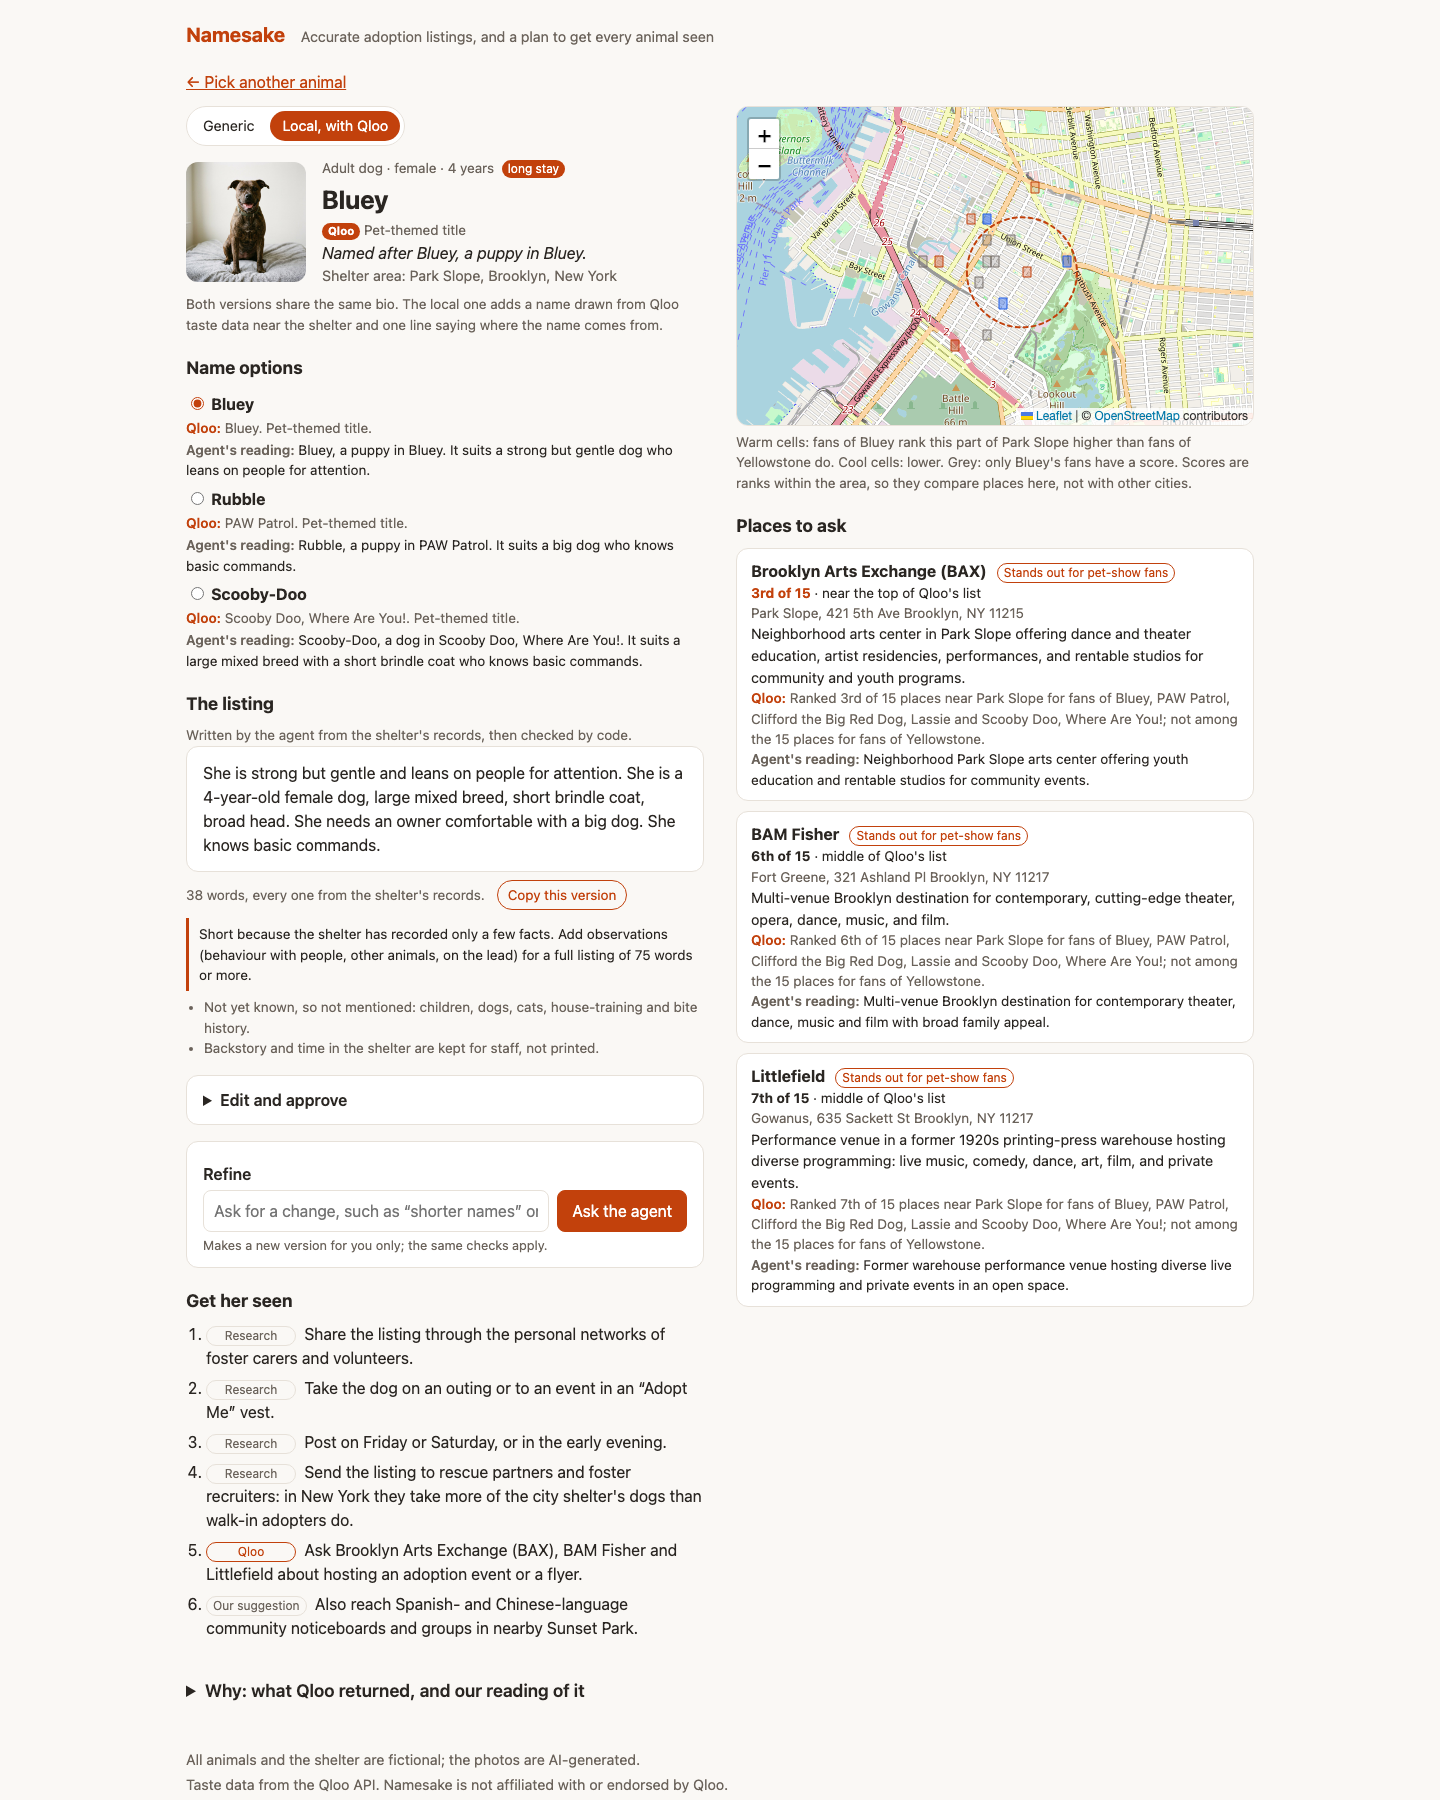
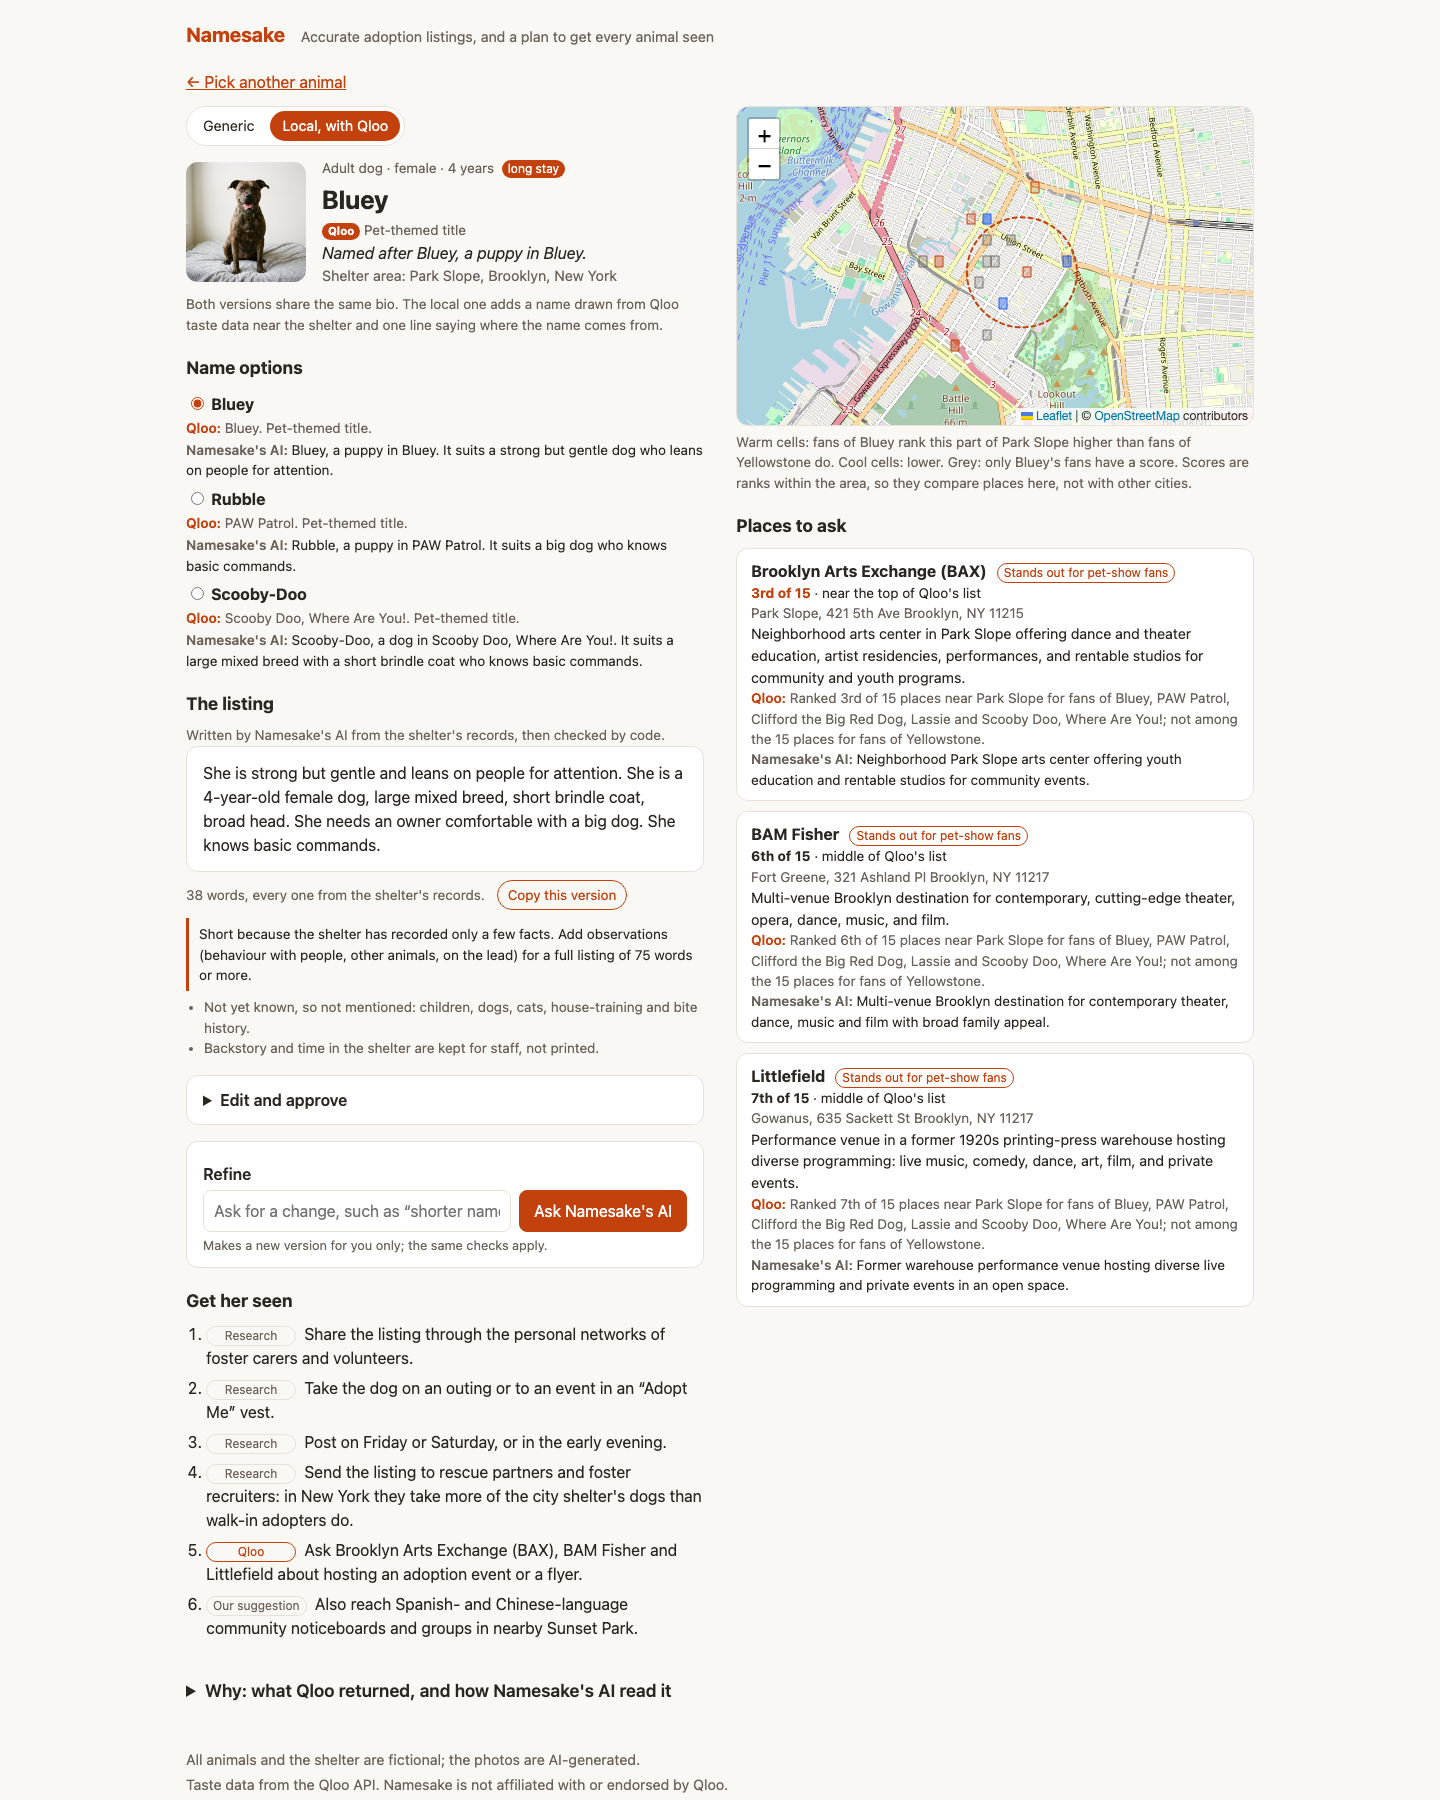
Say "Namesake's AI", not "the agent"; put the shelter area in a bar above the animals
- The author: "the agent" read as if Qloo chose. Every reading, button,
  step-log line and fallback note a visitor sees, and the README, Devpost
  text and video script, now say Namesake's AI. "Agent" stays in code,
  data values and developer docs; the README still explains that
  Namesake's AI is an agent.
- Start page: a slim "Shelter area: Park Slope, Brooklyn · Change" bar
  above the examples and the animals. "Change" opens a panel with the
  presets, the typed area with suggestions, and the map, which sizes and
  centres itself on opening. The panel opens by itself when no area is
  chosen or a check needs the visitor; choosing an area updates the bar.
- docs/img/result.png re-captured with the new wording.

diff --git a/app/ui/classic/templates/start.html b/app/ui/classic/templates/start.html
@@ -12,14 +12,6 @@
   <p>{{ view.intro }}</p>
 </section>
 
-{% if view.examples %}
-<section class="examples" data-role="examples">
-  <h2>{{ view.examples_heading }}</h2>
-  <ul>
-    {% for example in view.examples %}<li><a class="example" href="{{ example.url }}">{{ example.label }}</a></li>{% endfor %}
-  </ul>
-</section>
-{% endif %}
 
 <form id="custom-location" action="{{ view.location_form.action }}" method="post">
   {% if ui_query %}<input type="hidden" name="ui" value="{{ ui }}">{% endif %}
@@ -30,9 +22,17 @@
 
 <form id="pick" action="/runs" method="post">
   {% if ui_query %}<input type="hidden" name="ui" value="{{ ui }}">{% endif %}
+  {# The chosen area as a slim bar; its panel holds everything for changing it. #}
+  <details class="shelter" id="shelter" data-role="shelter"{% if view.shelter.open %} open{% endif %}>
+    <summary>
+      <span class="shelter-heading">{{ view.shelter.heading }}:</span>
+      <strong class="shelter-name" id="shelter-name">{{ view.shelter.name }}</strong>
+      <span class="shelter-region" id="shelter-region">{{ view.shelter.region }}</span>
+      <span class="shelter-toggle"><span class="when-closed">{{ view.shelter.change }}</span><span class="when-open">{{ view.shelter.close }}</span></span>
+    </summary>
   <section class="where">
     <fieldset class="locations">
-      <legend><h2>Where is the shelter?</h2></legend>
+      <legend><h2>{{ view.shelter.panel_heading }}</h2></legend>
       {% if view.location_form.message %}
       {# A failed area check: said where the visitor will see it, and no area stays chosen. #}
       <p class="location-alert" id="location-alert" role="alert">{{ view.location_form.message }}</p>
@@ -83,6 +83,16 @@
     </figure>
     <script type="application/json" id="map-points">{{ view.locations|plain|tojson }}</script>
   </section>
+  </details>
+
+{% if view.examples %}
+  <section class="examples" data-role="examples">
+    <h2>{{ view.examples_heading }}</h2>
+    <ul>
+      {% for example in view.examples %}<li><a class="example" href="{{ example.url }}">{{ example.label }}</a></li>{% endfor %}
+    </ul>
+  </section>
+  {% endif %}
 
   <h2 class="step-heading">Pick an animal</h2>
 

diff --git a/app/ui/classic/templates/result.html b/app/ui/classic/templates/result.html
@@ -72,7 +72,7 @@
                           data-copy="{{ option.copy_text }}" {% if option.name == view.chosen_name %}checked{% endif %}>
               <strong>{{ option.name }}</strong></label>
             <p class="evidence"><span>Qloo:</span> {{ option.title }}. {{ option.badge }}.</p>
-            <p class="reading"><span>Agent's reading:</span> {{ option.reference }}. {{ option.why }}</p>
+            <p class="reading"><span>Namesake's AI:</span> {{ option.reference }}. {{ option.why }}</p>
           </li>
           {% endfor %}
         </ul>
@@ -124,7 +124,7 @@
       <div class="inline-field">
         <input id="refine-text" type="text" name="text" minlength="3" maxlength="200" required
                placeholder="{{ view.refine_placeholder }}">
-        <button type="submit">Ask the agent</button>
+        <button type="submit">Ask Namesake's AI</button>
       </div>
       <p class="hint">Makes a new version for you only; the same checks apply.</p>
     </form>
@@ -156,7 +156,7 @@
         <p class="venue-place">{{ venue.place }}</p>
         {% if venue.description %}<p class="venue-description">{{ venue.description }}</p>{% endif %}
         <p class="evidence"><span>Qloo:</span> {{ venue.evidence }}</p>
-        {% if venue.reason %}<p class="reading"><span>Agent's reading:</span> {{ venue.reason }}</p>{% endif %}
+        {% if venue.reason %}<p class="reading"><span>Namesake's AI:</span> {{ venue.reason }}</p>{% endif %}
       </li>
       {% else %}
       <li>No venues for this area yet.</li>
@@ -173,7 +173,7 @@
 {% endif %}
 
 <details class="why" data-role="why">
-  <summary>Why: what Qloo returned, and our reading of it</summary>
+  <summary>Why: what Qloo returned, and how Namesake's AI read it</summary>
   <div class="why-columns">
     <div class="why-column" data-role="qloo-returned">
       <h3>What Qloo returned</h3>
@@ -182,7 +182,7 @@
       </dl>
     </div>
     <div class="why-column" data-role="our-reading">
-      <h3>Our reading of it</h3>
+      <h3>How Namesake's AI read it</h3>
       <dl>
         {% for item in view.our_reading %}<dt>{{ item.title }}</dt><dd>{{ item.detail }}</dd>{% endfor %}
       </dl>

diff --git a/app/ui/classic/static/style.css b/app/ui/classic/static/style.css
@@ -490,7 +490,8 @@ button[type="submit"]:not(.animal-card):not(.link-button), .candidates button {
 .approve button[type="submit"] { margin-top: 8px; }
 .examples ul { display: flex; flex-wrap: wrap; gap: 8px; list-style: none; padding: 0; margin: 8px 0 0; }
 .example { display: inline-block; padding: 6px 12px; border: 1px solid var(--accent); border-radius: 999px; color: var(--accent); text-decoration: none; }
-.examples h2 { font-size: 1rem; margin: 16px 0 0; }
+.examples h2 { font-size: 1rem; margin: 0; }
+.examples { margin-bottom: 28px; }
 .add-animal a, .litter button { margin-top: 8px; }
 .add-animal-form form { display: grid; gap: 6px; max-width: 640px; }
 .add-animal-form label { font-weight: 600; margin-top: 6px; }
@@ -553,3 +554,24 @@ button[type="submit"]:not(.animal-card):not(.link-button), .candidates button {
   margin: 0 0 12px; padding: 10px 12px; border-left: 4px solid var(--accent);
   background: var(--surface); font-weight: 600;
 }
+
+/* The shelter bar above the animals, and its panel for changing the area. */
+.shelter {
+  margin: 0 0 24px;
+  border: 1px solid var(--border);
+  border-radius: var(--radius);
+  background: var(--surface);
+}
+.shelter > summary {
+  display: flex; flex-wrap: wrap; align-items: baseline; gap: 4px 8px;
+  padding: 12px 16px; cursor: pointer; list-style: none;
+}
+.shelter > summary::-webkit-details-marker { display: none; }
+.shelter-heading, .shelter-region { color: var(--muted); }
+.shelter-name { font-size: 1.05rem; }
+.shelter-toggle { margin-left: auto; color: var(--accent); font-weight: 600; }
+.shelter-toggle .when-open, .shelter[open] .shelter-toggle .when-closed { display: none; }
+.shelter[open] .shelter-toggle .when-open { display: inline; }
+.shelter[open] > summary { border-bottom: 1px solid var(--border); }
+.shelter > summary:focus-visible { outline: 2px solid var(--accent); outline-offset: 2px; }
+.shelter .where { padding: 16px; margin-bottom: 0; }

diff --git a/app/ui/classic/static/location-map.js b/app/ui/classic/static/location-map.js
@@ -51,7 +51,13 @@
     fillOpacity: 0.15,
   }).addTo(map);
   const pin = L.circleMarker(centreOf(start), pinStyle);
+  // The bar above the animals names the chosen area; the panel below it holds this map.
+  const panel = document.getElementById("shelter");
+  const barName = document.getElementById("shelter-name");
+  const barRegion = document.getElementById("shelter-region");
+  let current = start;
   const show = (p) => {
+    current = p;
     area.setLatLng(centreOf(p)).setRadius(p.shelter_radius_m);
     if (p.pin) pin.setLatLng(centreOf(p)).addTo(map);
     else pin.remove();
@@ -60,10 +66,21 @@
   };
   show(start);
 
+  // Leaflet cannot measure a map inside a closed panel: size and centre it on opening.
+  if (panel) {
+    panel.addEventListener("toggle", () => {
+      if (!panel.open) return;
+      map.invalidateSize();
+      map.setView(centreOf(current), zoomFor(current));
+    });
+  }
+
   document.querySelectorAll('input[name="location"]').forEach((input) => {
     input.addEventListener("change", () => {
       const p = points[input.value];
       if (!p) return;
+      if (barName) barName.textContent = p.label;
+      if (barRegion) barRegion.textContent = p.region;
       show(p);
       map.flyTo(centreOf(p), zoomFor(p), { duration: 1.2 });
     });

diff --git a/app/views/build.py b/app/views/build.py
@@ -30,6 +30,7 @@ from app.views.models import (
     PlanItem,
     Question,
     ResultView,
+    ShelterBar,
     StartView,
     StepView,
     VenueView,
@@ -194,7 +195,14 @@ def build_start_view(
     for option in options:
         if pin_far and option.selected:
             option.map_note = PIN_FAR_NOTE
+    chosen = next((o for o in options if o.selected), None)
+    shelter = (
+        ShelterBar(name=chosen.label, region=chosen.region)
+        if chosen
+        else ShelterBar(name="not chosen yet", open=True)
+    )
     return StartView(
+        shelter=shelter,
         examples=examples or [],
         title="Write an adoption listing",
         intro=(
@@ -230,7 +238,7 @@ def listing_view(
     draft = result.draft if result else None
     if draft is not None:
         bio = [(s.text, s.facts) for s in result.bio]
-        written_by = "Written by the agent from the shelter's records, then checked by code."
+        written_by = "Written by Namesake's AI from the shelter's records, then checked by code."
     else:
         bio = [(s.text, [s.source]) for s in templated_listing(animal).sentences]
         written_by = "Built from the shelter's records by a fixed template."
@@ -283,7 +291,9 @@ def listing_view(
             ),
             hook=local_hook,
             copy_text=copy_block(local_name, local_hook, text) if draft else "",
-            note=None if draft else "No local version yet: it needs the agent's name options.",
+            note=None
+            if draft
+            else "No local version yet: it needs the name options from Namesake's AI.",
             selected=draft is not None,
         ),
     ]
@@ -343,7 +353,7 @@ def name_view(result: ListingResult | None, profile: LocationProfile, text: str)
     if draft is None:
         return NameView(
             value=None,
-            placeholder="No name yet: the agent's name options appear after a run.",
+            placeholder="No name yet: the name options from Namesake's AI appear after a run.",
         )
     titles = title_names(profile, result)
     refs = result.references
@@ -519,12 +529,13 @@ def why(location: Location, profile: LocationProfile) -> tuple[list[WhyItem], li
         reading.append(
             WhyItem(
                 title="Who chose",
-                detail="The agent proposed the titles, settled ambiguous names and picked the "
-                "venues; code checked that each came from Qloo. "
+                detail="Namesake's AI proposed the titles, settled ambiguous names and picked "
+                "the venues; code checked that each came from Qloo. "
                 + (
                     "The order of the titles is Qloo's ranking for this area."
                     if profile.order_source == "qloo_rank"
-                    else "Qloo's ranking was unavailable, so the order is the agent's."
+                    else "Qloo's ranking was unavailable, so the order is the one Namesake's AI "
+                    "chose."
                 ),
             )
         )
@@ -596,14 +607,14 @@ def lookalike_why(
             WhyItem(title=f"{e.name} ({kind})", detail=found + sentences(e.description))
         )
         qloo_part = (
-            "the agent chose this title among Qloo's candidates"
+            "Namesake's AI chose this title among Qloo's candidates"
             if look.chosen
             else "Qloo confirmed the title"
         )
         detail = (
             f"{look.animal} in it shares this {animal.species}'s recorded look: "
-            f"{and_list(look.shared_look)}. That match is the agent's reading; {qloo_part}, "
-            "not how its animals look."
+            f"{and_list(look.shared_look)}. That match is the reading of Namesake's AI; "
+            f"{qloo_part}, not how its animals look."
         )
         if look.chosen and reasons.get(e.id):
             detail += f" Why this one: {reasons[e.id].rstrip('.')}."

diff --git a/app/agent/pipeline.py b/app/agent/pipeline.py
@@ -152,7 +152,9 @@ async def _build_profile(
                 qloo, location, species, seeds, model_factory(), log, output_mode
             )
         except AGENT_FAILURES as exc:
-            log.add("error", f"The profile agent did not finish ({type(exc).__name__})")
+            log.add(
+                "error", f"Namesake's AI did not finish the area profile ({type(exc).__name__})"
+            )
     if profile is None:
         log.add("note", "Falling back to the fixed lookup with the seed titles")
         profile = await asyncio.to_thread(build_profile, qloo, location, seeds)
@@ -251,8 +253,8 @@ async def write_listing(
     except AGENT_FAILURES as exc:
         log.add("error", f"The listing did not pass its checks ({type(exc).__name__})")
         result.fallback_reason = (
-            "The agent's draft did not pass the checks after one repair, so this is the "
-            "templated listing."
+            "The draft from Namesake's AI did not pass the checks after one repair, so this is "
+            "the templated listing."
         )
     return result
 

diff --git a/app/views/models.py b/app/views/models.py
@@ -84,12 +84,27 @@ class LocationForm(BaseModel):
     candidates: list[str] = []
 
 
+class ShelterBar(BaseModel):
+    """The slim bar above the animals: the chosen area, and the panel to change it."""
+
+    heading: str = "Shelter area"
+    name: str
+    region: str = ""
+    change: str = "Change"
+    close: str = "Done"
+    panel_heading: str = "Choose the shelter's area"
+    # Open when no area is chosen or an area check needs the visitor: the alert, Qloo's
+    # candidates and the required choice must be visible.
+    open: bool = False
+
+
 class StartView(BaseModel):
     title: str
     intro: str
     examples_heading: str = "Try an example: these open instantly"
     examples: list[ExampleLink] = []
     locations: list[LocationOption]
+    shelter: ShelterBar
     location_form: LocationForm = LocationForm()
     animals: list[AnimalCard]
     litters: list[LitterCard]

diff --git a/tests/test_locations.py b/tests/test_locations.py
@@ -57,3 +57,12 @@ def _checked_id(html: str) -> str:
         if "checked" in match.group(2):
             return match.group(1)
     raise AssertionError("no location is checked")
+
+
+def test_the_shelter_bar_names_the_chosen_area_and_stays_closed():
+    # The author: the area is a setting chosen once, so it sits in a bar above the animals.
+    page = client.get("/", params={"location": "astoria"}).text
+    bar = page[page.index('id="shelter"') : page.index("</summary>")]
+    assert "Astoria" in bar and "Queens, New York" in bar and "Change" in bar
+    assert 'data-role="shelter">' in page  # closed: no "open" attribute
+    assert page.index('id="shelter"') < page.index('class="animal-grid"')

diff --git a/app/agent/profile_agent.py b/app/agent/profile_agent.py
@@ -186,7 +186,7 @@ def rank_titles(
         else:
             # A partial or degraded ranking may have lost the location signal.
             status = f"unavailable: Qloo's ranking was {env.status}"
-        deps.log.add("note", f"Ranking {status}; keeping the agent's own order")
+        deps.log.add("note", f"Ranking {status}; keeping the order Namesake's AI chose")
         return {"status": status}
     order = [e.entity_id for e in env.entities()]
     deps.rank_order = order

diff --git a/tests/test_places.py b/tests/test_places.py
@@ -345,6 +345,8 @@ def test_a_failed_area_check_leaves_no_area_chosen(client, monkeypatch):  # noqa
     )
     assert page.status_code == 503
     assert 'id="location-alert" role="alert"' in page.text
+    # The panel holding the alert and the required choice opens by itself.
+    assert 'data-role="shelter" open>' in page.text and "not chosen yet" in page.text
     assert (
         " checked>" not in page.text and 'name="location" value="park-slope" required' in page.text
     )

diff --git a/tests/test_lookalike.py b/tests/test_lookalike.py
@@ -287,7 +287,7 @@ def test_a_single_needs_input_candidate_is_a_choice_not_a_confirmation(roster):
     )
     assert "Found in Qloo" not in returned["Example Dog Film (movie)"]
     why = reading["Why Example Dog Film"]
-    assert "the agent chose this title among Qloo's candidates" in why
+    assert "Namesake's AI chose this title among Qloo's candidates" in why
     assert "Qloo confirmed" not in why and why.endswith("Why this one: the 1989 film.")
 
 

diff --git a/app/main.py b/app/main.py
@@ -305,6 +305,8 @@ def start_view(
     )
     if form is not None:
         view.location_form = form
+        # A check that needs the visitor (an alert or Qloo's candidates) opens the panel.
+        view.shelter.open = view.shelter.open or bool(form.message or form.candidates)
     return view
 
 
